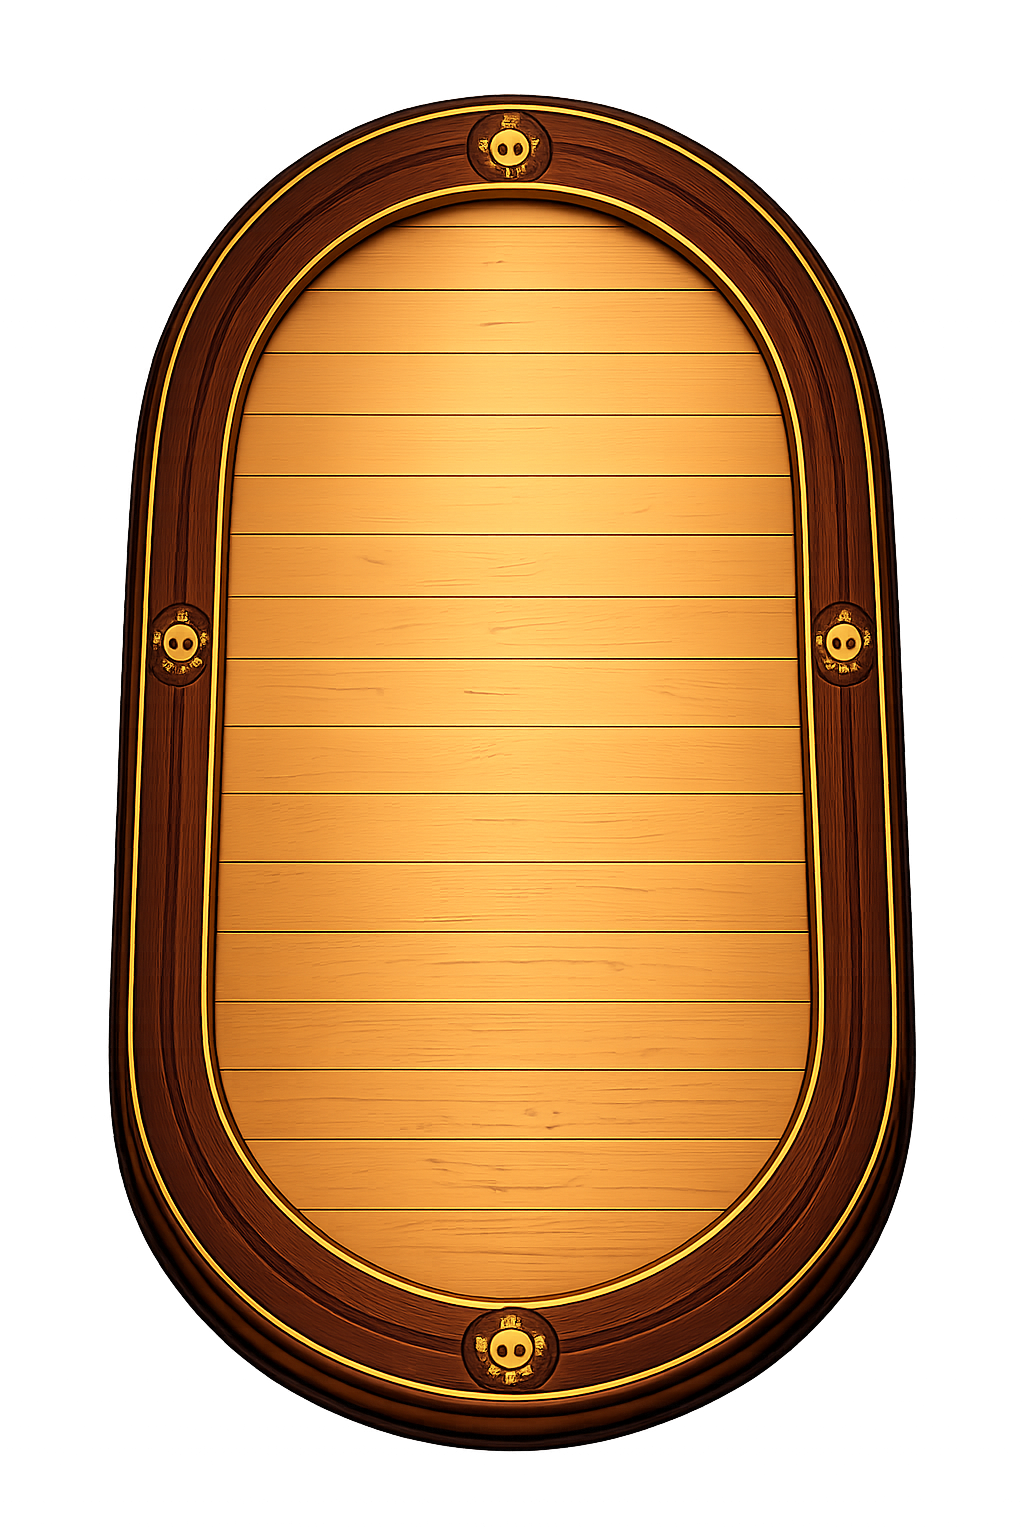
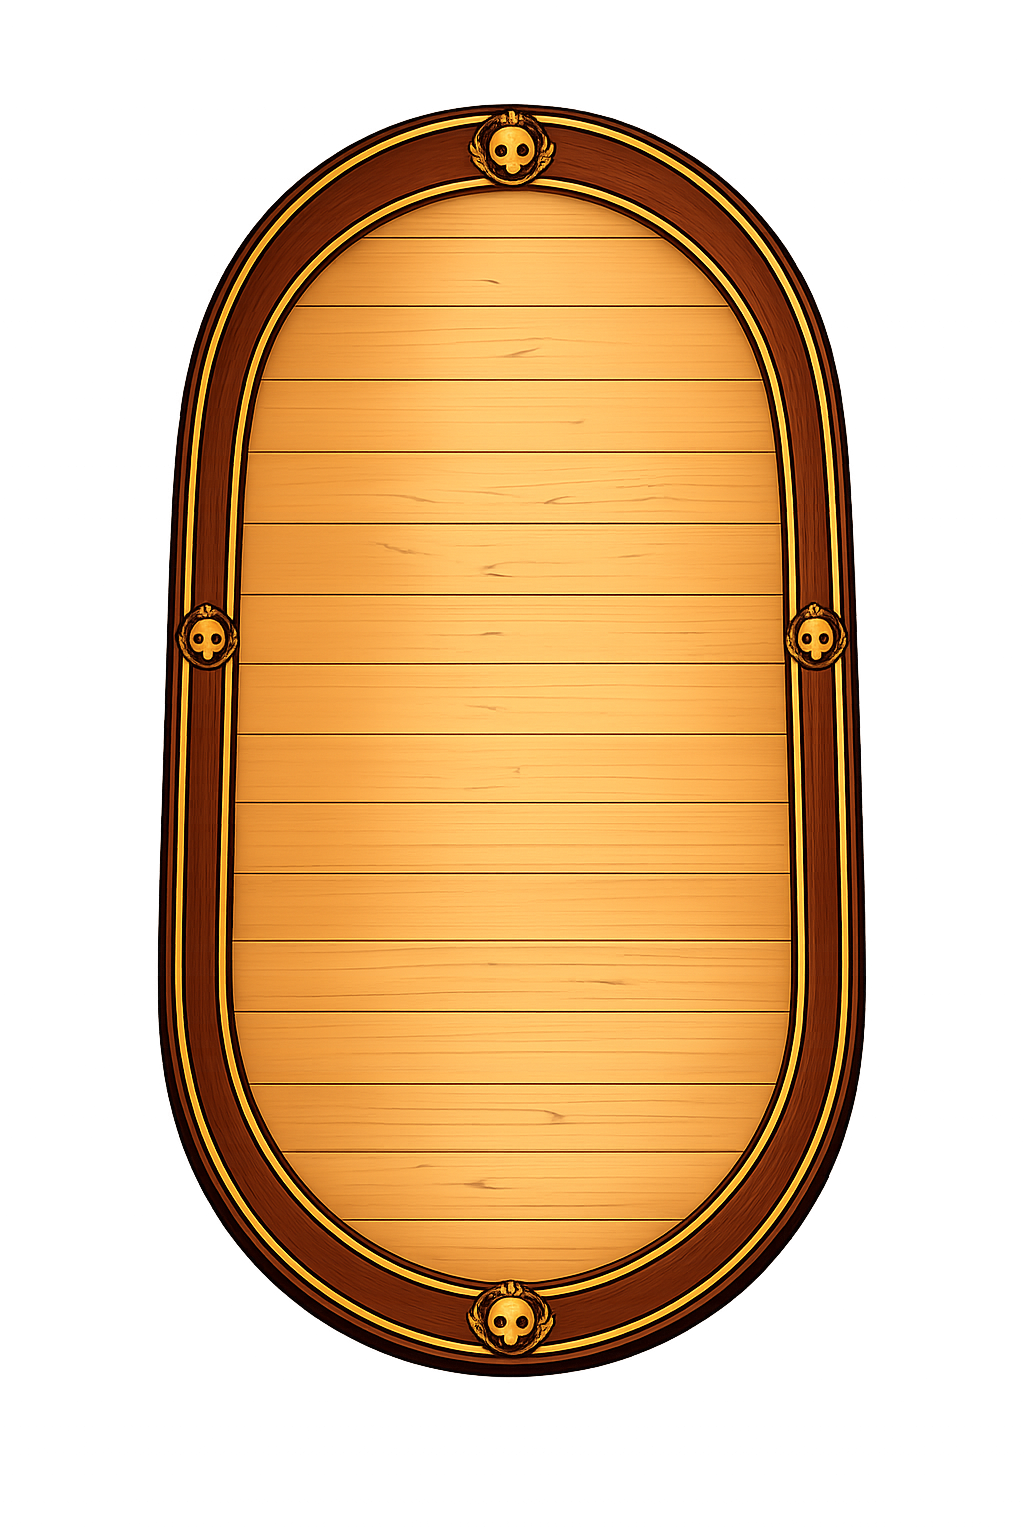
v5.98 (b1.23): new wooden skull table, bet position tweaks

Changed region(s): [[0.0938, 0.0625, 0.9062, 0.9688]]

diff --git a/client/src/screens/GameScreen.jsx b/client/src/screens/GameScreen.jsx
@@ -69,9 +69,10 @@ const C7_BL_Y    = TABLE_T + 7 * (TABLE_H / 8);                            // 60
 const MY_POD_L   = POD_ANCHOR_L;                                            // 20
 const MY_POD_T   = Math.round(C7_BL_Y - AV_TOP - AVATAR_SZ / 2);          // 554
 const CC_T         = Math.round(0.455 * DESIGN_H - 25);                   // 363
-const POT_T        = Math.round(0.560 * DESIGN_H - 17);                   // 460
-const OPP_BET_T    = Math.round(0.375 * DESIGN_H - 20);                   // 300
-const MY_BET_T     = Math.round(0.620 * DESIGN_H - 20);                   // 508
+const POT_T        = Math.round(TABLE_T + 4 * (TABLE_H / 8) + 20);        // 20px past row 5 line
+const OPP_BET_T    = Math.round(TABLE_T + 2 * (TABLE_H / 8));             // row 3 line
+const MY_BET_T     = Math.round(0.620 * DESIGN_H - 20 + TABLE_H / 16);   // down half row
+const MY_BET_L     = Math.round(TABLE_W / 4);                             // right half column (center +62px)
 const DEALER_SZ    = Math.round(0.07 * DESIGN_W);
 const DEALER_OPP_L = Math.round(COL_C_X);                                 // C3 top-left x
 const DEALER_OPP_T = Math.round(TABLE_T + 2 * (TABLE_H / 8));             // C3 top-left y
@@ -492,7 +493,7 @@ export default function GameScreen({ navigation }) {
           </View>
 
           {/* Player bet */}
-          <View style={[s.betSlot, { top: MY_BET_T }]} pointerEvents="none">
+          <View style={[s.betSlot, { top: MY_BET_T, left: MY_BET_L }]} pointerEvents="none">
             {(me?.roundBet > 0 || me?.allIn) && (
               <View style={s.betPill}>
                 {me.allIn && <Text style={s.allInTag}>ALL IN</Text>}

diff --git a/client/src/config.js b/client/src/config.js
@@ -14,5 +14,5 @@ function resolveUrl(url) {
 
 export const SERVER_URL = resolveUrl(envUrl);
 export const VERSION = 'v5.98';
-export const BRANCH_VERSION = 'b1.21';
+export const BRANCH_VERSION = 'b1.23';
 export const VERSION_DISPLAY = `${VERSION} (${BRANCH_VERSION})`;